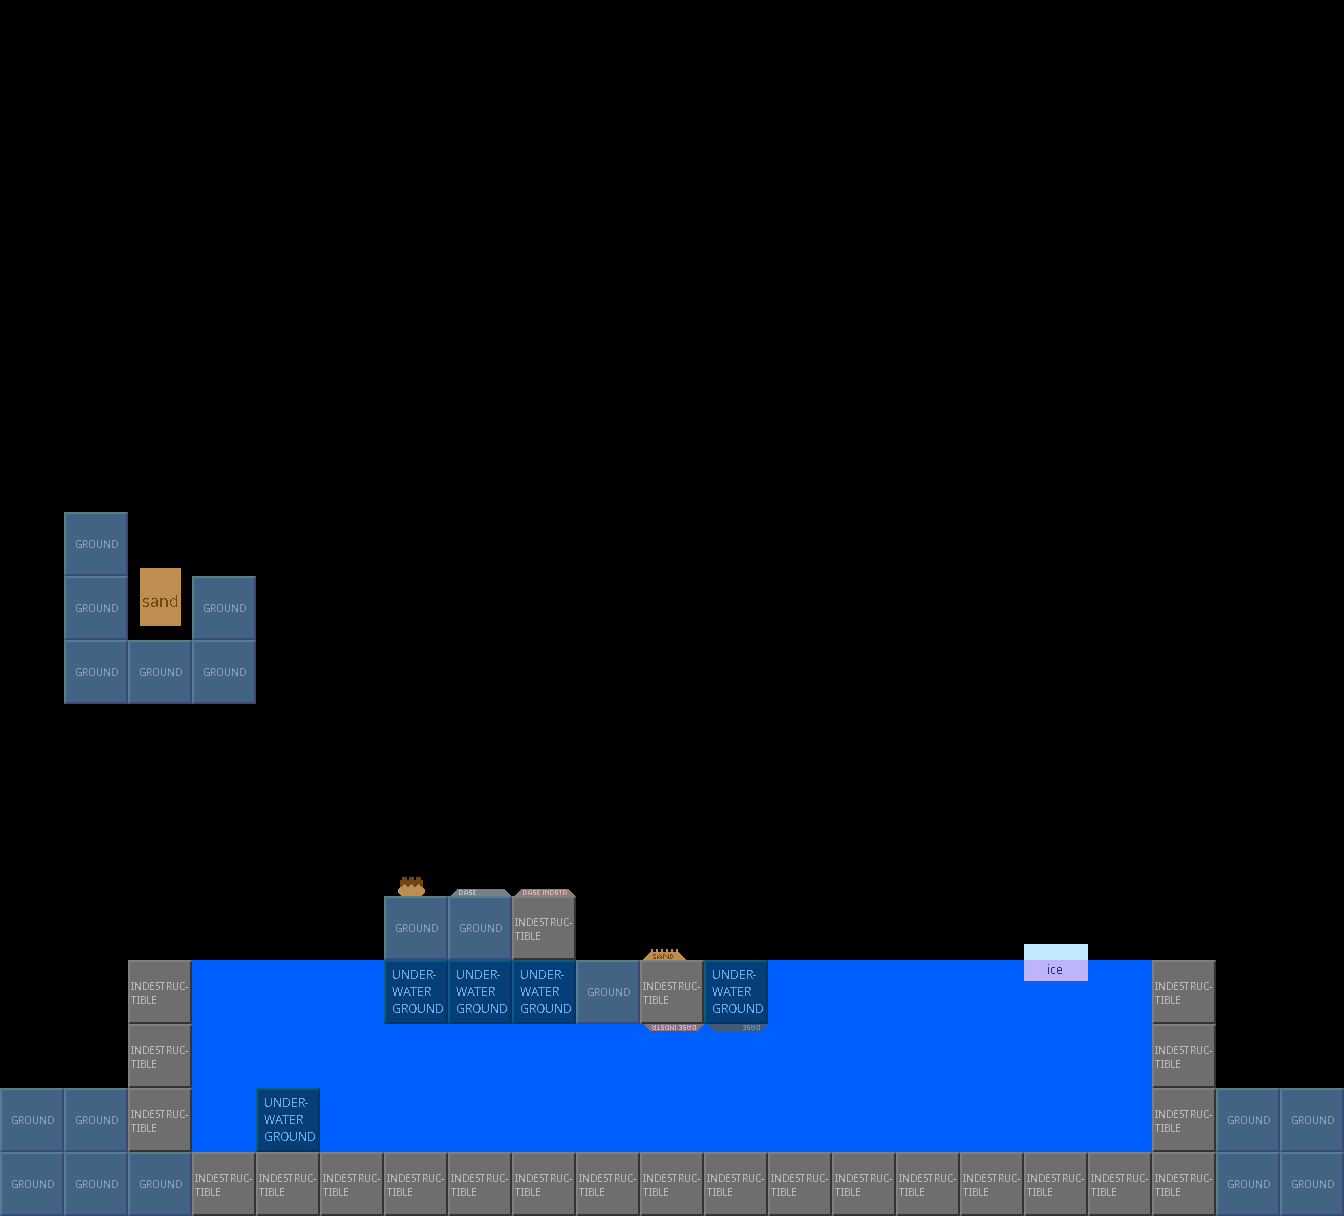
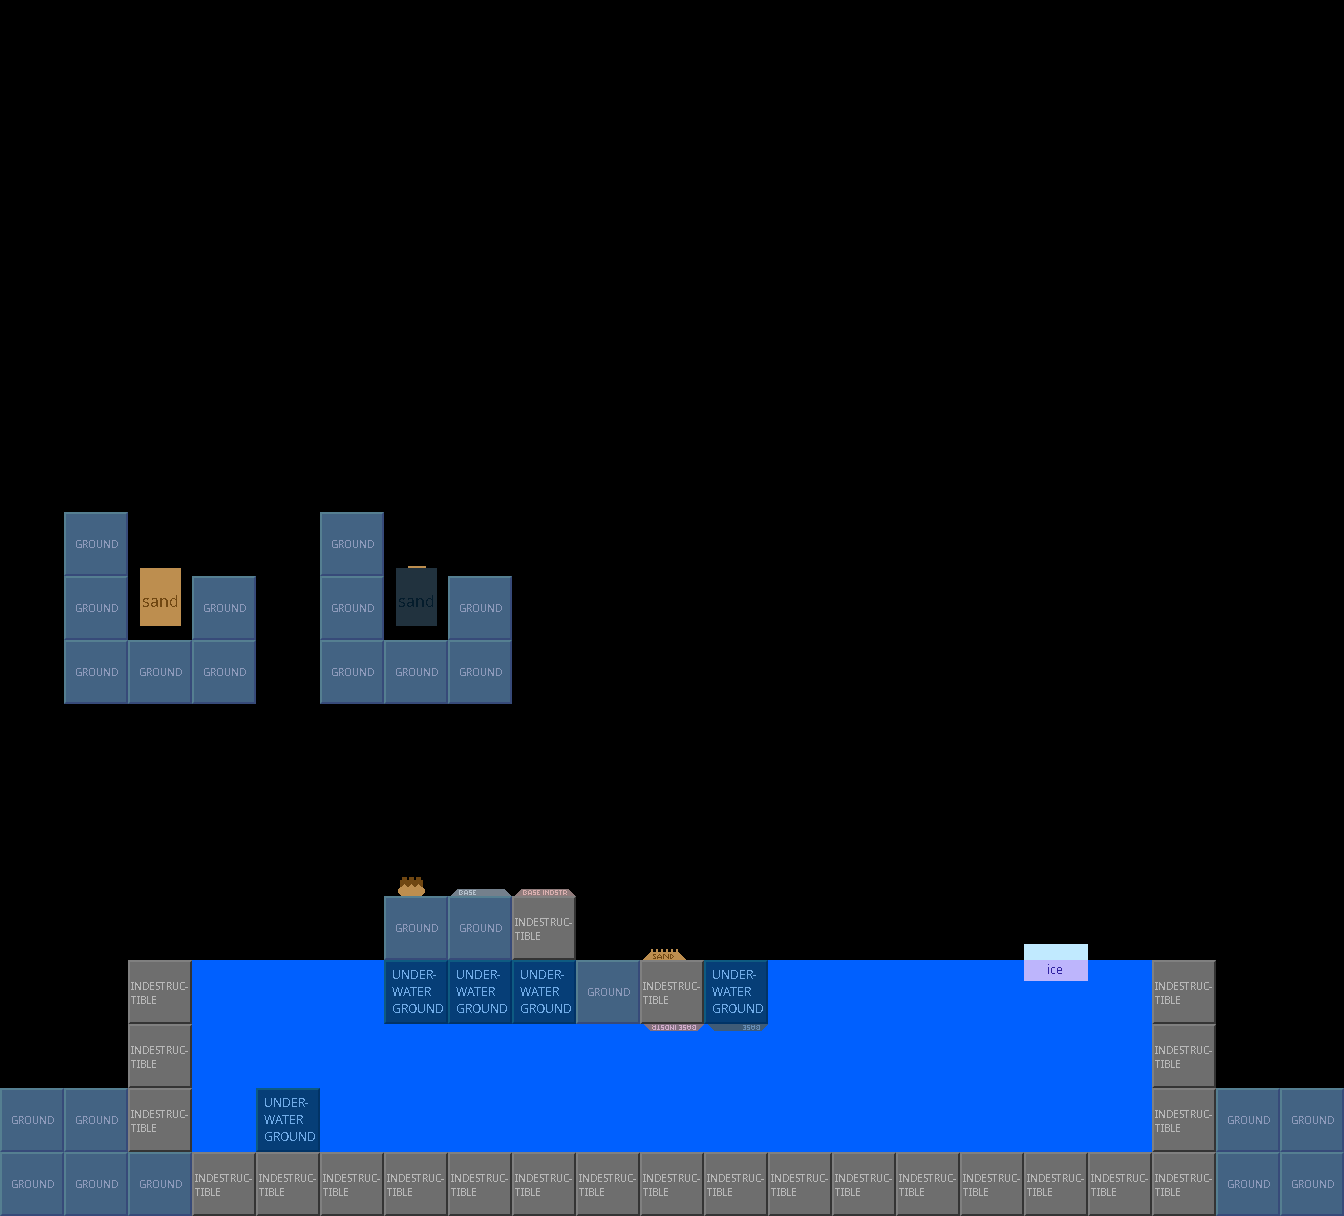
Preserve pixel destructability bit in terrain effects
Allow indestructible burnable terrain. Cannot be destroyed by explosions
but can burn away or turn to cinder.
Allow also indestructible falling sand. Probably not a good idea to
actually use it, since it can trap players.

Changed region(s): [[0.2188, 0.4062, 0.4062, 0.5938]]

diff --git a/src/game/level/leveleditor.rs b/src/game/level/leveleditor.rs
@@ -228,11 +228,9 @@ impl<'a> LevelEditor<'a> {
     // Replace a point with a solid or an empty space.
     // underwater bit is preserved.
     fn replace_point_lc(&mut self, pos: LevelCoordinate, solid: Terrain, color: u32) {
-        debug_assert!((solid & !(TER_MASK_SOLID | TER_BIT_DYNAMIC)) == 0);
-
         if let Some((tile, offset, tilepos)) = self.level.tile_at_lc_mut(pos) {
             if solid == 0 {
-                tile.terrain[offset] &= !(TER_BIT_DESTRUCTIBLE | TER_MASK_SOLID | TER_BIT_DYNAMIC);
+                tile.terrain[offset] &= TER_BIT_WATER;
                 if terrain::is_underwater(tile.terrain[offset]) {
                     tile.artwork[offset] = self.water_color;
                 } else {
@@ -250,8 +248,7 @@ impl<'a> LevelEditor<'a> {
                 } else {
                     tile.artwork[offset] = color;
                 }
-                tile.terrain[offset] =
-                    (tile.terrain[offset] & !TER_MASK_SOLID) | TER_BIT_DESTRUCTIBLE | solid;
+                tile.terrain[offset] = tile.terrain[offset] & TER_BIT_WATER | solid;
             };
             self.dirty_set.insert(tilepos);
         }
@@ -323,7 +320,7 @@ impl<'a> LevelEditor<'a> {
                 DynamicTerrainCell::Foam { limit } => {
                     self.replace_point_lc(
                         pos,
-                        TER_TYPE_GROUND,
+                        TER_TYPE_GROUND | TER_BIT_DESTRUCTIBLE,
                         Color::from_hsv(
                             37.0 - limit as f32 / 2.0,
                             0.372,
@@ -346,7 +343,7 @@ impl<'a> LevelEditor<'a> {
                     if counter > 0 {
                         self.replace_point_lc(
                             pos,
-                            TER_TYPE_GREYGOO,
+                            TER_TYPE_GREYGOO | TER_BIT_DESTRUCTIBLE,
                             Color::from_hsv(183.0, 1.0, counter as f32 / 6.0).as_argb_u32(),
                         );
                         new_cells.insert(
@@ -384,7 +381,11 @@ impl<'a> LevelEditor<'a> {
                             },
                         );
                     } else {
-                        self.replace_point_lc(pos, TER_TYPE_HIGH_EXPLOSIVE, 0xffff0000);
+                        self.replace_point_lc(
+                            pos,
+                            TER_TYPE_HIGH_EXPLOSIVE | TER_BIT_DESTRUCTIBLE,
+                            0xffff0000,
+                        );
                         if limit > 0 {
                             Self::neighbors(&NEIGHBORS_ROUNDISH, pos).for_each(|p| {
                                 let ter_at_p = self.level.terrain_at_lc(p);
@@ -404,7 +405,7 @@ impl<'a> LevelEditor<'a> {
                         }
                     }
                 }
-                DynamicTerrainCell::Fire { counter, cinder } => {
+                DynamicTerrainCell::Fire { counter, ash } => {
                     if counter == 30 {
                         Self::neighbors(&NEIGHBORS_ROUNDISH, pos).for_each(|p| {
                             let ter_at_p = self.level.terrain_at_lc(p);
@@ -413,19 +414,14 @@ impl<'a> LevelEditor<'a> {
                                     p,
                                     DynamicTerrainCell::Fire {
                                         counter: fastrand::i32(31..60),
-                                        cinder: terrain::is_cinder(ter_at_p),
+                                        ash: terrain::burnable_to_ash(ter_at_p),
                                     },
                                 );
                             } else if terrain::is_explosive(ter_at_p) {
                                 // Add a cell here so we don't call the script multiple times
                                 // if it's neighbored by more than one live cell.
-                                new_cells.insert(
-                                    p,
-                                    DynamicTerrainCell::Fire {
-                                        counter: 0,
-                                        cinder: false,
-                                    },
-                                );
+                                new_cells
+                                    .insert(p, DynamicTerrainCell::Fire { counter: 0, ash: 0 });
 
                                 match scripting.get_function("luola_explosive_terrain") {
                                     Ok(f) => {
@@ -451,14 +447,14 @@ impl<'a> LevelEditor<'a> {
                     if counter > 0 {
                         self.replace_point_lc(
                             pos,
-                            TER_TYPE_DAMAGE,
+                            TER_TYPE_DAMAGE | (ash & TER_BIT_DESTRUCTIBLE),
                             Color::from_hsv((60 - counter) as f32, 1.0, 1.0).as_argb_u32(),
                         );
                         new_cells.insert(
                             pos,
                             DynamicTerrainCell::Fire {
                                 counter: counter - 1,
-                                cinder,
+                                ash,
                             },
                         );
 
@@ -470,11 +466,11 @@ impl<'a> LevelEditor<'a> {
                                 TerrainParticle::ember(below.as_world_coordinate()),
                             ));
                         }
-                    } else if cinder {
+                    } else if ash != 0 {
                         let shade = fastrand::f32() * 0.1 + 0.2;
                         self.replace_point_lc(
                             pos,
-                            TER_TYPE_GROUND,
+                            ash,
                             Color::new(shade, shade, shade).as_argb_u32(),
                         );
                     } else {
@@ -483,7 +479,11 @@ impl<'a> LevelEditor<'a> {
                 }
                 DynamicTerrainCell::Freezer { limit } => {
                     if !terrain::is_solid(self.level.terrain_at_lc(pos)) {
-                        self.replace_point_lc(pos, TER_TYPE_ICE, self.snow_color);
+                        self.replace_point_lc(
+                            pos,
+                            TER_TYPE_ICE | TER_BIT_DESTRUCTIBLE,
+                            self.snow_color,
+                        );
                     }
                     if limit > 0 {
                         Self::neighbors(&NEIGHBORS_ROUNDISH, pos).for_each(|p| {
@@ -509,7 +509,7 @@ impl<'a> LevelEditor<'a> {
                                             if terrain::is_space(self.level.terrain_at_lc(icepos)) {
                                                 self.replace_point_lc(
                                                     icepos,
-                                                    TER_TYPE_ICE,
+                                                    TER_TYPE_ICE | TER_BIT_DESTRUCTIBLE,
                                                     self.snow_color,
                                                 );
                                             } else {
@@ -531,7 +531,7 @@ impl<'a> LevelEditor<'a> {
                     }
                 }
                 DynamicTerrainCell::Toxin { limit } => {
-                    self.replace_point_lc(pos, TER_TYPE_DAMAGE, 0x60ff2b80);
+                    self.replace_point_lc(pos, TER_TYPE_DAMAGE | TER_BIT_DESTRUCTIBLE, 0x60ff2b80);
                     if limit > 0 {
                         Self::neighbors(&NEIGHBORS4, pos).for_each(|p| {
                             let ter_at_p: u8 = self.level.terrain_at_lc(p);
@@ -555,7 +555,8 @@ impl<'a> LevelEditor<'a> {
                         new_cells.insert(
                             pos,
                             DynamicTerrainCell::Sand {
-                                terrain: terrain & (TER_MASK_SOLID | TER_BIT_DYNAMIC),
+                                terrain: terrain
+                                    & (TER_MASK_SOLID | TER_BIT_DYNAMIC | TER_BIT_DESTRUCTIBLE),
                                 solidify: 60 * 10,
                                 color: self.level.pixel_at_lc(pos),
                             },
@@ -579,7 +580,8 @@ impl<'a> LevelEditor<'a> {
                     color,
                 } => {
                     if solidify > 0
-                        && self.level.terrain_at_lc(pos) & (TER_MASK_SOLID | TER_BIT_DYNAMIC)
+                        && self.level.terrain_at_lc(pos)
+                            & (TER_MASK_SOLID | TER_BIT_DYNAMIC | TER_BIT_DESTRUCTIBLE)
                             == terrain
                     {
                         const FLOW: [LevelCoordinate; 5] = [

diff --git a/src/game/level/dynter.rs b/src/game/level/dynter.rs
@@ -49,7 +49,7 @@ pub enum DynamicTerrainCell {
     // Cinder type terrain is turned into grey colored regular ground
     Fire {
         counter: i32,
-        cinder: bool,
+        ash: Terrain,
     },
 
     // Toxic material that absorbs into terrain surface
@@ -78,10 +78,8 @@ impl DynamicTerrainCell {
             } | DynamicTerrainCell::Nitro {
                 counter: _,
                 limit: _,
-            } | DynamicTerrainCell::Fire {
-                counter: _,
-                cinder: _,
-            } | DynamicTerrainCell::LooseningSand
+            } | DynamicTerrainCell::Fire { counter: _, ash: _ }
+                | DynamicTerrainCell::LooseningSand
                 | DynamicTerrainCell::Sand {
                     terrain: _,
                     solidify: _,
@@ -121,7 +119,7 @@ impl DynamicTerrainCell {
             }),
             b"Fire" => Ok(DynamicTerrainCell::Fire {
                 counter: table.get::<Option<i32>>("counter")?.unwrap_or(60),
-                cinder: false,
+                ash: 0,
             }),
             b"Toxin" => Ok(DynamicTerrainCell::Toxin {
                 limit: table.get::<Option<i32>>("limit")?.unwrap_or(5),

diff --git a/src/game/world.rs b/src/game/world.rs
@@ -458,7 +458,7 @@ impl World {
                             self.scripting.add_effect(WorldEffect::AddDynamicTerrain(
                                 pos,
                                 DynamicTerrainCell::Sand {
-                                    terrain: t & terrain::TER_MASK_SOLID,
+                                    terrain: t,
                                     solidify: 60,
                                     color: tp.color().as_argb_u32(),
                                 },
@@ -472,7 +472,7 @@ impl World {
                                 pos,
                                 DynamicTerrainCell::Fire {
                                     counter: 60,
-                                    cinder: false,
+                                    ash: terrain::burnable_to_ash(ter),
                                 },
                             ));
                         }

diff --git a/src/game/level/terrain.rs b/src/game/level/terrain.rs
@@ -94,6 +94,14 @@ pub fn is_cinder(t: Terrain) -> bool {
     t & TER_MASK_SOLID == TER_TYPE_CINDER
 }
 
+pub fn burnable_to_ash(t: Terrain) -> Terrain {
+    if is_cinder(t) {
+        t & TER_BIT_DESTRUCTIBLE | TER_TYPE_GROUND
+    } else {
+        0
+    }
+}
+
 /// Is this ice/snow?
 /// Ships will slide on icy surfaces
 pub fn is_ice(t: Terrain) -> bool {
